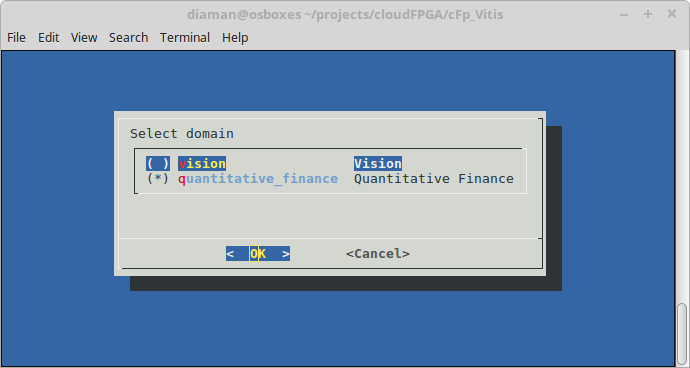
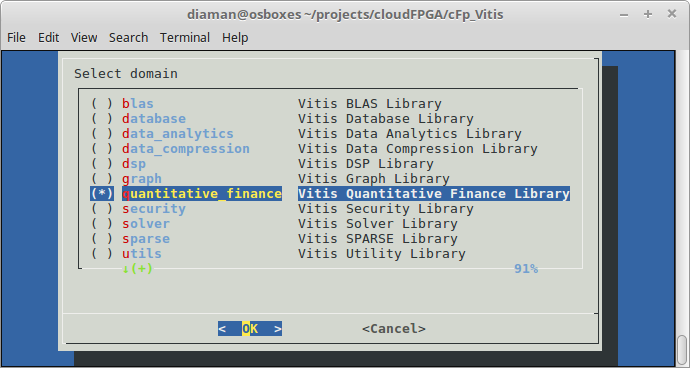
Added all domains of vitis to config.sh. [ci skip]

diff --git a/README.md b/README.md
@@ -7,7 +7,7 @@ cloudFPGA project (cFp) for Xilinx Vitis library
 - [Project documentation](https://pages.github.ibm.com/cloudFPGA/Doc/pages/project_repository.html#cfp-vitis)
 - [Code documentation](https://pages.github.ibm.com/cloudFPGA/Dox/group__cFp__Vitis.html)
 
-**Idea**: The `cFp_Vitis` project bridges the accelerated libraries of open source [Xilinx Vitis](https://github.com/Xilinx/Vitis_Libraries) to [cloudFPGA](https://pages.github.ibm.com/cloudFPGA/Doc/index.html) platform.
+**Idea**: The `cFp_Vitis` project bridges the accelerated libraries of open source [Vitis Libraries](https://github.com/Xilinx/Vitis_Libraries) to [cloudFPGA](https://pages.github.ibm.com/cloudFPGA/Doc/index.html) platform.
 ```
    CPU(OpenCL/OpenCV)  -->  FPGA (Vitis HLS C++)  -->  FPGA (Vitis HLS C++)
     /\__________________________________________________|
